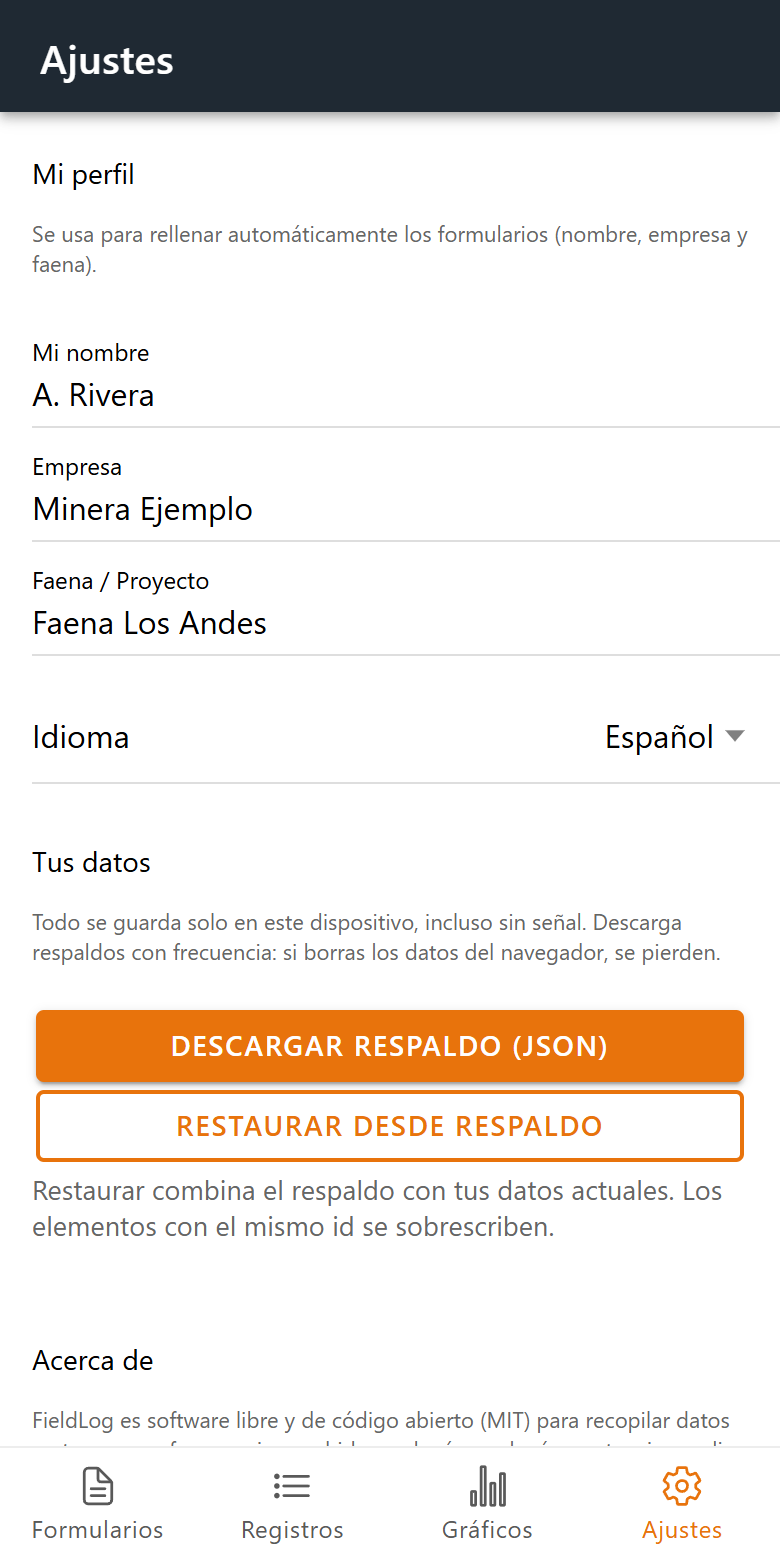
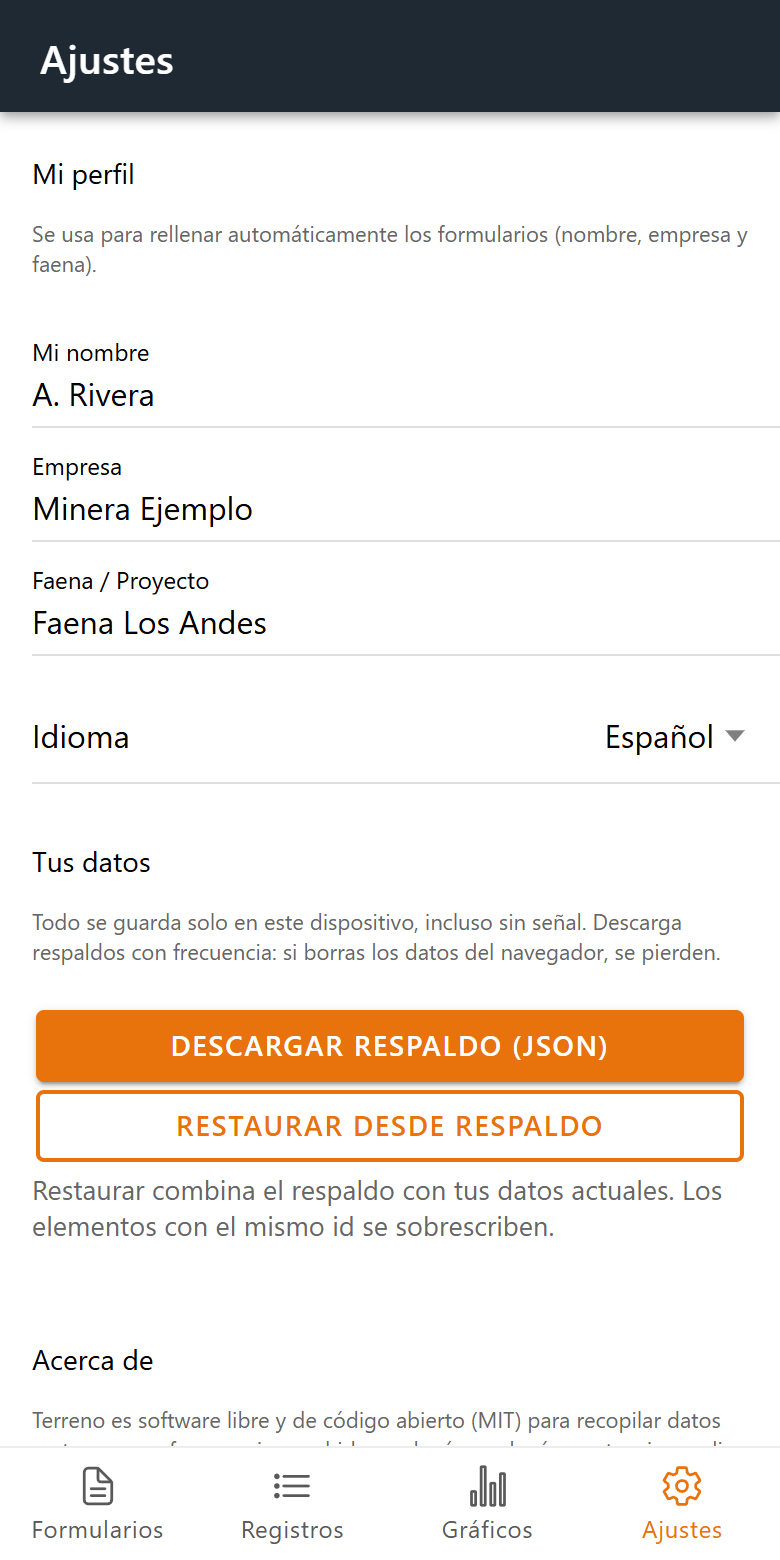
Rename FieldLog to Terreno
Visible name, package, manifest, README and screenshots updated. Internal
storage keys and backup marker keep the old identifier so existing data and
backups remain compatible.

Changed region(s): [[0.0308, 0.8923, 0.9231, 0.9231]]

diff --git a/src/app/core/i18n.ts b/src/app/core/i18n.ts
@@ -9,7 +9,7 @@ export const LANGS: { code: Lang; name: string }[] = [
 type Dict = Record<string, string>;
 
 const es: Dict = {
-  'app.name': 'FieldLog',
+  'app.name': 'Terreno',
   'app.tagline': 'Datos de terreno para minería',
   'tab.forms': 'Formularios',
   'tab.records': 'Registros',
@@ -159,13 +159,13 @@ const es: Dict = {
   'settings.backup': 'Descargar respaldo (JSON)',
   'settings.restore': 'Restaurar desde respaldo',
   'settings.restored': 'Respaldo restaurado: {t} formularios, {r} registros.',
-  'settings.restoreError': 'Ese archivo no es un respaldo válido de FieldLog.',
+  'settings.restoreError': 'Ese archivo no es un respaldo válido de Terreno.',
   'settings.restoreHint':
     'Restaurar combina el respaldo con tus datos actuales. Los elementos con el mismo id se sobrescriben.',
   'settings.profileSaved': 'Perfil guardado',
   'settings.about': 'Acerca de',
   'settings.aboutText':
-    'FieldLog es software libre y de código abierto (MIT) para recopilar datos en terreno en faenas mineras: hidrogeología, geología, geotecnia, medio ambiente, seguridad y operaciones. Coordenadas UTM sobre WGS84/SIRGAS.',
+    'Terreno es software libre y de código abierto (MIT) para recopilar datos en terreno en faenas mineras: hidrogeología, geología, geotecnia, medio ambiente, seguridad y operaciones. Coordenadas UTM sobre WGS84/SIRGAS.',
   'settings.version': 'Versión {v}',
 
   'common.cancel': 'Cancelar',
@@ -174,7 +174,7 @@ const es: Dict = {
 };
 
 const en: Dict = {
-  'app.name': 'FieldLog',
+  'app.name': 'Terreno',
   'app.tagline': 'Field data for mining',
   'tab.forms': 'Forms',
   'tab.records': 'Records',
@@ -324,13 +324,13 @@ const en: Dict = {
   'settings.backup': 'Download backup (JSON)',
   'settings.restore': 'Restore from backup',
   'settings.restored': 'Backup restored: {t} forms, {r} records.',
-  'settings.restoreError': 'That file is not a valid FieldLog backup.',
+  'settings.restoreError': 'That file is not a valid Terreno backup.',
   'settings.restoreHint':
     'Restoring merges the backup with your current data. Items with the same id are overwritten.',
   'settings.profileSaved': 'Profile saved',
   'settings.about': 'About',
   'settings.aboutText':
-    'FieldLog is free, open-source software (MIT) for collecting field data at mine sites: hydrogeology, geology, geotechnics, environment, safety and operations. UTM coordinates on WGS84/SIRGAS.',
+    'Terreno is free, open-source software (MIT) for collecting field data at mine sites: hydrogeology, geology, geotechnics, environment, safety and operations. UTM coordinates on WGS84/SIRGAS.',
   'settings.version': 'Version {v}',
 
   'common.cancel': 'Cancel',

diff --git a/src/app/core/store.ts b/src/app/core/store.ts
@@ -34,7 +34,7 @@ function lsSet(key: string, value: unknown): void {
   try {
     localStorage.setItem(key, JSON.stringify(value));
   } catch (e) {
-    console.error('FieldLog: could not persist setting', e);
+    console.error('Terreno: could not persist setting', e);
   }
 }
 
@@ -244,7 +244,7 @@ export class Store {
   }
 
   private fail(e: unknown) {
-    console.error('FieldLog: could not save to device storage', e);
+    console.error('Terreno: could not save to device storage', e);
     this.persistent.set(false);
   }
 }

diff --git a/src/index.html b/src/index.html
@@ -2,7 +2,7 @@
 <html lang="es">
 <head>
   <meta charset="utf-8" />
-  <title>FieldLog</title>
+  <title>Terreno</title>
   <base href="/" />
   <meta name="description" content="Datos de terreno para minería: formularios de hidrogeología, geología, geotecnia, medio ambiente y seguridad. Funciona sin señal. Exporta a Excel." />
   <meta name="color-scheme" content="light dark" />

diff --git a/src/app/pages/home.page.ts b/src/app/pages/home.page.ts
@@ -58,7 +58,7 @@ import { CATEGORIES, Category } from '../models';
     <ion-header>
       <ion-toolbar color="dark">
         <ion-title>
-          <span class="brand">Field<b>Log</b></span>
+          <span class="brand"><b>Terreno</b></span>
           <span class="tag">{{ i18n.t('app.tagline') }}</span>
         </ion-title>
         <ion-buttons slot="end">

diff --git a/src/app/pages/settings.page.ts b/src/app/pages/settings.page.ts
@@ -161,7 +161,7 @@ export class SettingsPage {
     const json = JSON.stringify(this.store.exportBackup(), null, 2);
     download(
       new Blob([json], { type: 'application/json' }),
-      `fieldlog-backup-${new Date().toISOString().slice(0, 10)}.json`
+      `terreno-backup-${new Date().toISOString().slice(0, 10)}.json`
     );
   }
 

diff --git a/src/app/core/idb.ts b/src/app/core/idb.ts
@@ -32,7 +32,7 @@ export class Db {
       });
       return new Db(db);
     } catch (e) {
-      console.error('FieldLog: IndexedDB unavailable', (e as Error)?.name, (e as Error)?.message);
+      console.error('Terreno: IndexedDB unavailable', (e as Error)?.name, (e as Error)?.message);
       return null;
     }
   }

diff --git a/src/app/pages/records.page.ts b/src/app/pages/records.page.ts
@@ -388,7 +388,7 @@ export class RecordsPage {
   async exportXlsx() {
     const tables = this.tables();
     if (!tables.length) return;
-    await downloadXlsx(tables, `fieldlog_${this.stamp()}`);
+    await downloadXlsx(tables, `terreno_${this.stamp()}`);
     await this.say();
   }
 

diff --git a/src/app/core/export.ts b/src/app/core/export.ts
@@ -108,7 +108,7 @@ export function safeFileName(name: string): string {
       .normalize('NFKD')
       .replace(/[^\w\-]+/g, '_')
       .replace(/^_+|_+$/g, '')
-      .slice(0, 60) || 'fieldlog'
+      .slice(0, 60) || 'terreno'
   );
 }
 

diff --git a/capacitor.config.ts b/capacitor.config.ts
@@ -1,8 +1,8 @@
 import type { CapacitorConfig } from '@capacitor/cli';
 
 const config: CapacitorConfig = {
-  appId: 'org.fieldlog.app',
-  appName: 'FieldLog',
+  appId: 'cl.terreno.app',
+  appName: 'Terreno',
   webDir: 'www',
 };
 

diff --git a/src/theme/variables.scss b/src/theme/variables.scss
@@ -1,4 +1,4 @@
-// FieldLog mining theme: safety orange on dark slate.
+// Terreno mining theme: safety orange on dark slate.
 :root {
   --ion-color-primary: #e8730c;
   --ion-color-primary-rgb: 232, 115, 12;

diff --git a/README.md b/README.md
@@ -1,9 +1,9 @@
-# FieldLog
+# Terreno
 
 **Field data collection for mining — built for Chilean operations.**
 Hydrogeology, geology, geotechnics, environment, safety and operations in one free app. Works **offline**, no account, no server, no tracking: your data stays on your device.
 
-**Live app:** https://nibrill.github.io/FieldLog/ — open it on your phone and use *Add to Home Screen* to install it.
+**Live app:** https://nibrill.github.io/Terreno/ — open it on your phone and use *Add to Home Screen* to install it.
 
 *Español: app gratuita de código abierto para tomar datos en terreno en faenas mineras de Chile. Funciona sin señal, con coordenadas UTM, fotos, gráficos y exportación a Excel. La interfaz está en español por defecto (y en inglés).*
 
@@ -76,3 +76,5 @@ Issues and pull requests are welcome — especially new form templates from real
 ## License
 
 [MIT](LICENSE)
+
+> Formerly "FieldLog". Internal storage keys keep the old name so existing data and backups keep working.
